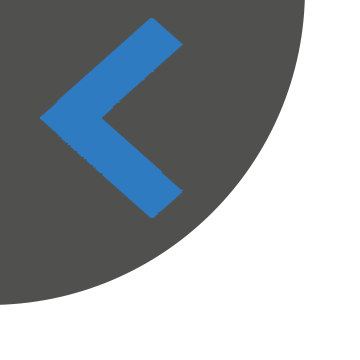
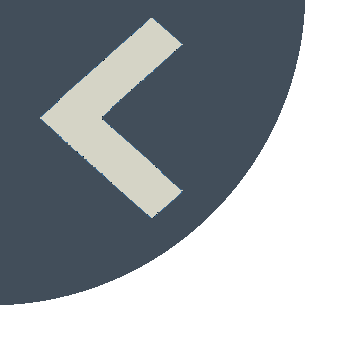
Fix for #43
Fix for #43. Also, back button and mozilla logo on footer changed.

diff --git a/src/client/js/script.js b/src/client/js/script.js
@@ -57,7 +57,17 @@ function numToMonth(number) {
       return "Dec";
   }
 }
-
+function checkDynamicVScroll(){
+  var testcaseheight = $('#testcase').height()+200;
+  var windowheight = $(window).height()
+  if (testcaseheight < windowheight && !FIREFOX) {
+      $('#outer-wrapper').addClass('no-margin-wrapper');
+  }else if(testcaseheight > windowheight && !FIREFOX){
+    $('#outer-wrapper').removeClass('no-margin-wrapper');
+  }
+  console.log(testcaseheight);
+  console.log(windowheight);
+}
 function cardclose() {
   $("#masthead").show();
   $("#Hero_Image").show();
@@ -69,6 +79,7 @@ function cardclose() {
   $("#contact_form").show();
   $(".pillars").show();
   $(".testing").hide();
+  $('#outer-wrapper').removeClass('no-margin-wrapper');
 }
 $(".back").click(function() {
   $('header').show();
@@ -217,6 +228,9 @@ function request(state, initiate) {
           $(renderthis).appendTo(".event-view");
         }
       });
+      if(!initiate){
+      checkDynamicVScroll();
+      }
     }
   });
 
@@ -246,6 +260,7 @@ function requestS(apiId) {
           result.endhours, result.endminutes, result.eventdescription, result.eventid, result.eventurl,
           result.stateofevent);
       $(renderthis).appendTo(".single-event");
+      checkDynamicVScroll();
     }
   });
 

diff --git a/src/client/css/style.css b/src/client/css/style.css
@@ -35,10 +35,18 @@ a {
 
   min-width: 320px;
   min-height: 100%;
+  /*margin-bottom: 200px;*/
 
   border-top: 2px solid #fff;
 }
-
+@media screen and (-webkit-min-device-pixel-ratio:0) {
+  #outer-wrapper {
+    margin-bottom: 200px;
+  }
+}
+.no-margin-wrapper{
+  margin-bottom:0 !important;
+}
 #masthead {
   position: relative;
 
@@ -1661,7 +1669,7 @@ footer {
   font-family: 'Open Sans', sans-serif;
   position: relative;
   clear: both;
-  margin-top: -191px; /* negative value of footer height */
+  margin-top: -200px; /* negative value of footer height */
   padding: 20px 0;
   border-top: 5px solid #999;
   background-color: #424E5A ;
